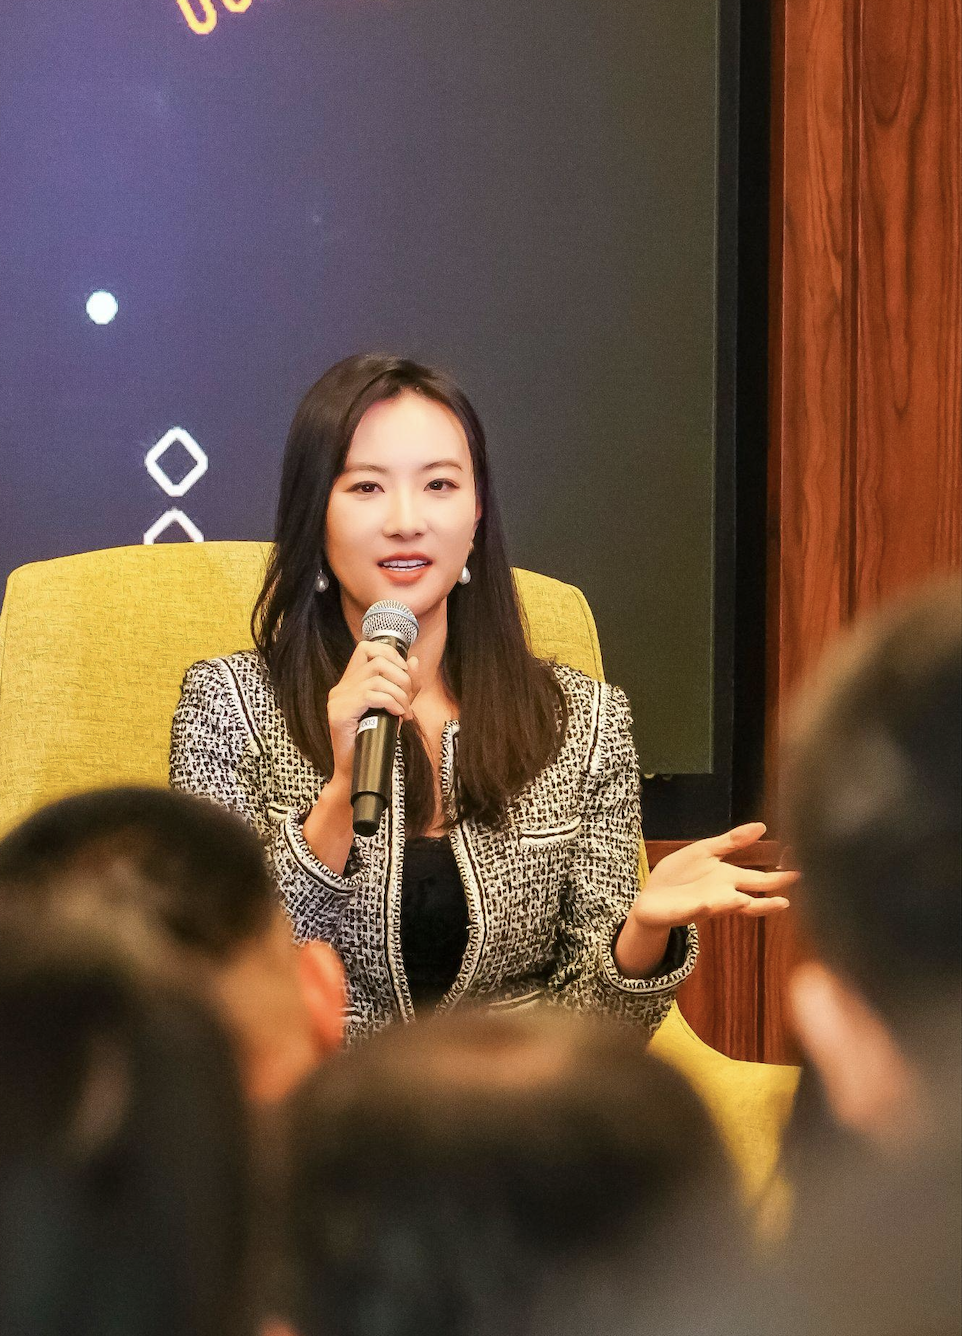
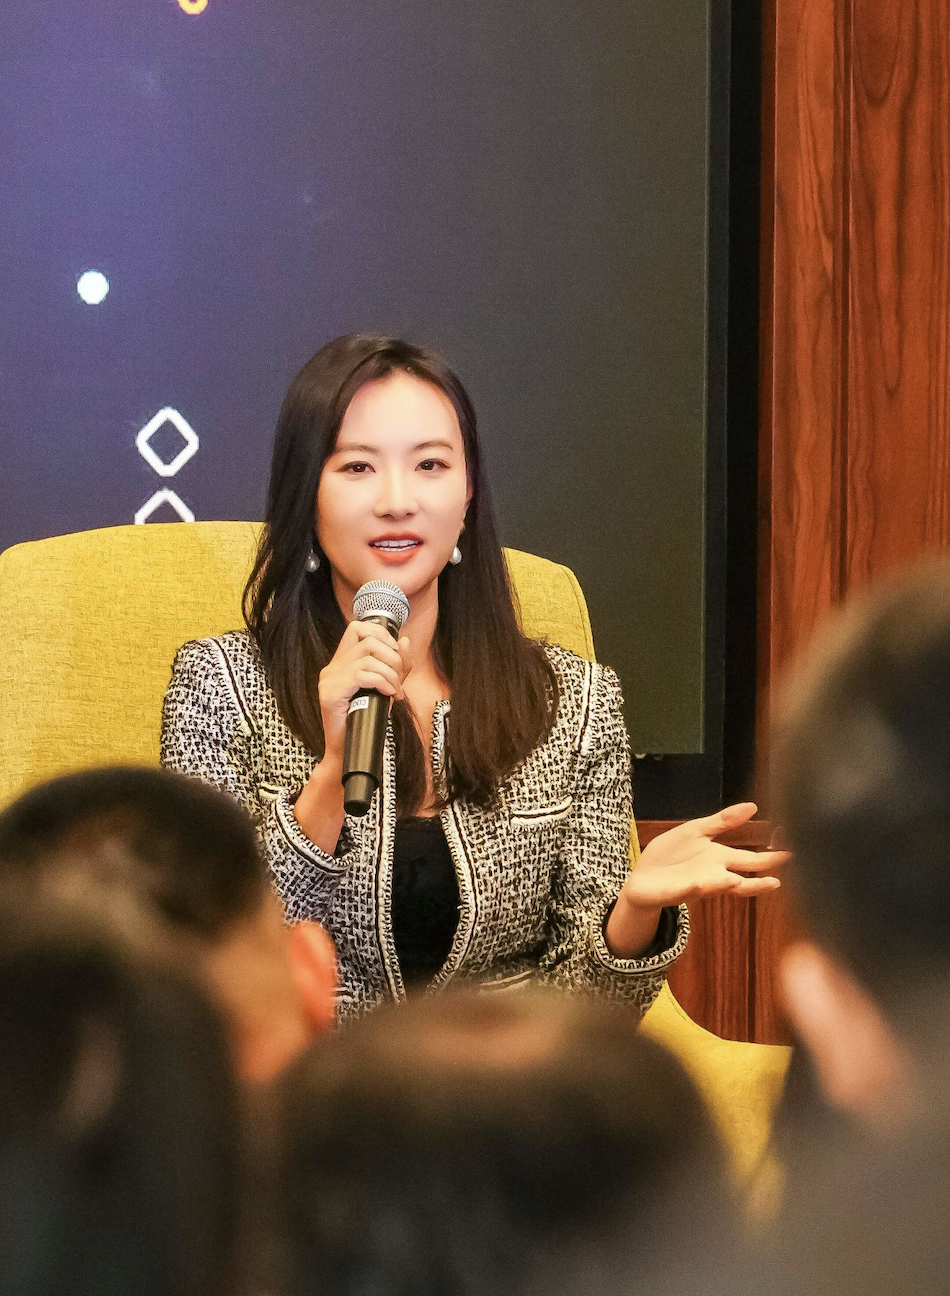
Update bio and LinkedIn

diff --git a/index.html b/index.html
@@ -769,21 +769,27 @@
   <h2>Selected talks</h2>
 
   <div class="timeline" style="margin-top:32px;">
-    <div class="timeline-item">
+    <div class="timeline-item" style="align-items:start;">
       <div class="tl-year">2025</div>
-      <div>
-        <div class="tl-role">Energy and Data Centers: The Biggest Opportunities?</div>
-        <div class="tl-company">Alignment Summit · Silicon Valley</div>
-        <div class="tl-desc">Panel discussion on datacenter bottlenecks, energy infrastructure constraints, and emerging opportunities in space-based infrastructure for AI.</div>
+      <div style="display:grid; grid-template-columns:1fr 280px; gap:32px; align-items:start;">
+        <div>
+          <div class="tl-role">Energy and Data Centers: The Biggest Opportunities?</div>
+          <div class="tl-company">Alignment Summit · Silicon Valley</div>
+          <div class="tl-desc">Panel discussion on datacenter bottlenecks, energy infrastructure constraints, and emerging opportunities in space-based infrastructure for AI.</div>
+        </div>
+        <img src="talk1.jpg" alt="Panel at Alignment Summit 2025" style="width:100%; aspect-ratio:4/3; object-fit:cover; object-position:top;">
       </div>
     </div>
 
-    <div class="timeline-item">
+    <div class="timeline-item" style="align-items:start;">
       <div class="tl-year">2026</div>
-      <div>
-        <div class="tl-role">Scaling AI: The Infra, Energy and Capital Triangle</div>
-        <div class="tl-company">Silicon Valley</div>
-        <div class="tl-desc">Exploring where capital flows in AI infrastructure buildout, datacenter financing structures, and potential systemic risks.</div>
+      <div style="display:grid; grid-template-columns:1fr 280px; gap:32px; align-items:start;">
+        <div>
+          <div class="tl-role">Scaling AI: The Infra, Energy and Capital Triangle</div>
+          <div class="tl-company">Silicon Valley</div>
+          <div class="tl-desc">Exploring where capital flows in AI infrastructure buildout, datacenter financing structures, and potential systemic risks.</div>
+        </div>
+        <img src="talk2.jpg" alt="Panel on Scaling AI 2026" style="width:100%; aspect-ratio:4/3; object-fit:cover; object-position:top;">
       </div>
     </div>
   </div>
@@ -818,7 +824,7 @@
       <div>
         <div class="tl-role">Co-Founder</div>
         <div class="tl-company">AI Healthcare Company · Sequoia-SourceCode Capital</div>
-        <div class="tl-desc">Co-founded an AI healthcare company backed by Sequoia-SourceCode Capital. Built the company from zero to product, navigating model selection, inference cost optimization, and enterprise go-to-market — giving a ground-level view of AI application unit economics.</div>
+        <div class="tl-desc">Co-founded an AI healthcare company backed by Sequoia-SourceCode Capital. Built from zero to product, giving me the operator's view of what AI applications actually pay for from the infrastructure stack, and where margins compress as models commoditize.</div>
       </div>
     </div>
 
@@ -845,7 +851,7 @@
       <a href="mailto:" class="connect-link">
         Email <span class="arrow">→</span>
       </a>
-      <a href="https://linkedin.com" target="_blank" class="connect-link">
+      <a href="https://www.linkedin.com/in/christina-x-49773221/" target="_blank" class="connect-link">
         LinkedIn <span class="arrow">→</span>
       </a>
       <a href="https://twitter.com" target="_blank" class="connect-link">
